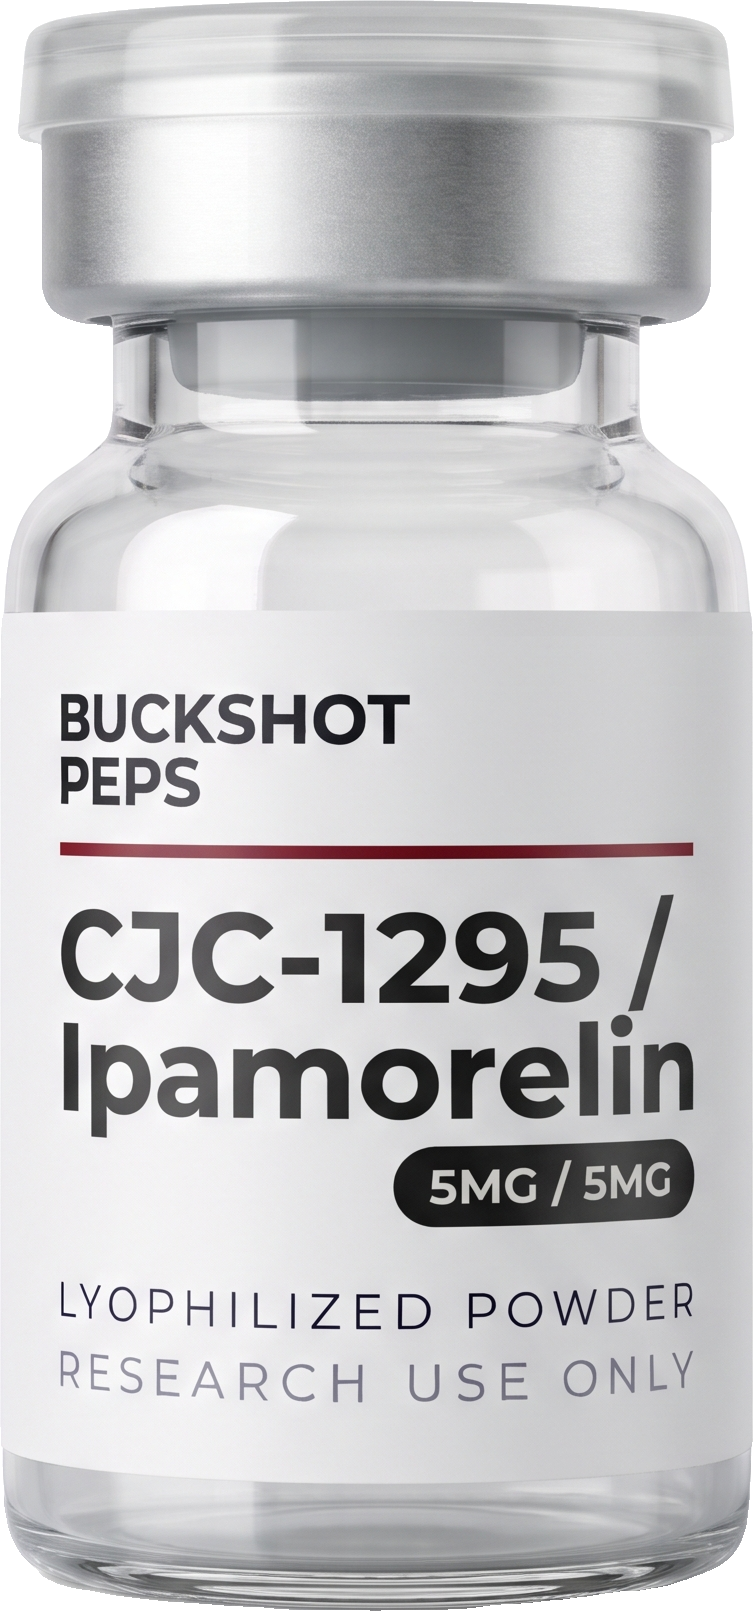
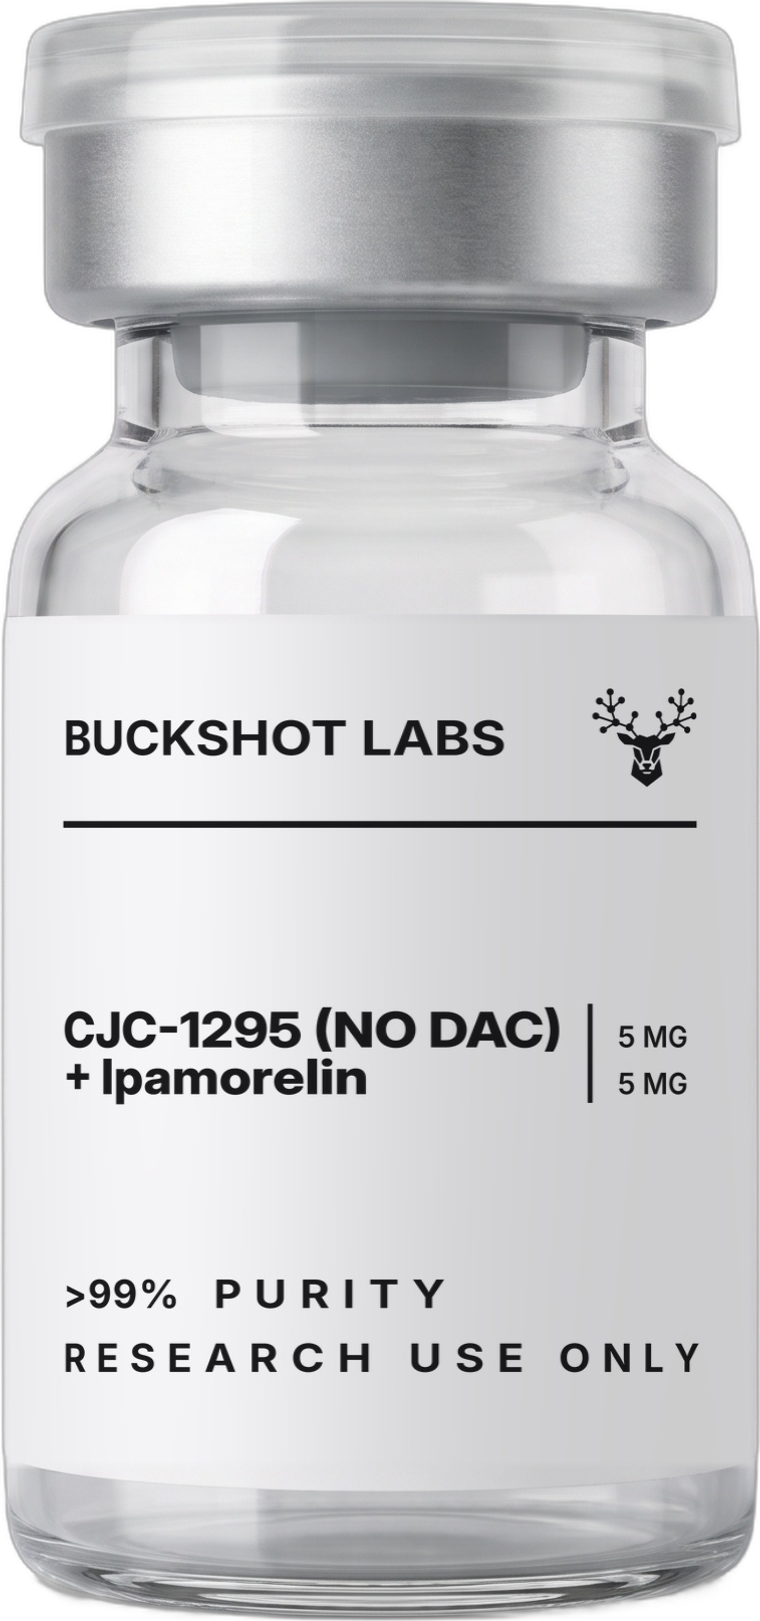
QA pass: new vial art, canonical names, overstock check, 390px fixes
- Hero vials still said BUCKSHOT PEPS / LYOPHILIZED POWDER: replaced with the
  new Buckshot Labs transparent renders (trimmed, 760px wide).
- One-time logged data migration renames products to MOTS-c, 5-Amino-1MQ,
  CJC-1295 (NO DAC) + Ipamorelin and Retatrutide (slugs and past orders kept).
- Checkout refuses quantities above stock (guest carts could order more than
  exist; only fully sold-out items were refused before).
- Admin inventory scrolled sideways at 390px (grid column grew to the longest
  name): columns are minmax(0,1fr) now.
- Signing in mid-checkout counted a second 'checkout started' in analytics.
- Admin form placeholder no longer suggests 'Lyophilized powder'.
- e2e specs updated for the new names, code box and per-account rules.

diff --git a/e2e/accounts.spec.ts b/e2e/accounts.spec.ts
@@ -72,7 +72,7 @@ test.beforeAll(async ({ browser, playwright }) => {
   single = catalog.find((p) => p.variants.length === 1 && p.stock !== "out")!;
   reta = catalog.find((p) => p.name === "Retatrutide")!;
   expect(single, "a single-size product").toBeTruthy();
-  expect(reta?.variants.map((v) => v.label)).toEqual(["10mg", "20mg"]);
+  expect(reta?.variants.length, "Retatrutide has two sizes").toBe(2);
   // Ben used Cora's referral code on an earlier order.
   const db = new DatabaseSync(DB);
   cCode = (db.prepare(`select coalesce("referralCodeDisplay", "referralCode") c from "Customer" where email = ?`).get(C.email) as { c: string }).c;
@@ -132,7 +132,7 @@ test("1. A adds items and a code; sign out empties the cart; B sees only B's car
 test("2. a guest cart merges into the account at sign in, and codes are not carried over", async () => {
   await signOut(shop);
   await shop.goto(`/product/${reta.slug}`);
-  await shop.getByRole("radio", { name: /^10mg/ }).click();
+  await shop.getByRole("radio", { name: new RegExp(`^${reta.variants[0].label}`) }).click();
   await shop.getByRole("button", { name: /^Add to cart ·/ }).click();
   const drawer = shop.getByRole("dialog", { name: "Your cart" });
   await drawer.getByRole("button", { name: "Add a discount or referral code" }).click();
@@ -227,16 +227,20 @@ test("5. quick add on desktop: single size and Retatrutide 10mg / 20mg", async (
   await rcard.scrollIntoViewIfNeeded();
   await rcard.hover();
   const rbar = shop.locator(`[data-quick-add="${reta.slug}"] .qa-bar`);
-  await expect(rbar.locator("[data-quick-size]")).toHaveText(["10mg", "20mg"]);
-  await rbar.locator('[data-quick-size="20mg"]').click();
+  await expect(rbar.locator("[data-quick-size]")).toHaveText(reta.variants.map((v) => v.label));
+  // Sold-out sizes are shown but can't be picked; pick an in-stock one (the second when it is in stock).
+  for (const [i, v] of reta.variants.entries()) if (v.stock === "out") await expect(rbar.locator("[data-quick-size]").nth(i)).toBeDisabled();
+  const pick = reta.variants[1].stock !== "out" ? 1 : reta.variants.findIndex((v) => v.stock !== "out");
+  const picked = reta.variants[pick];
+  await rbar.locator("[data-quick-size]").nth(pick).click();
   await rbar.getByRole("button", { name: "Increase quantity" }).click();
   await expect(rbar.locator("[data-quick-qty]")).toHaveText("2");
   await shop.waitForTimeout(500);
   await shot(shop, "12-quick-add-retatrutide");
-  const before = (await serverCart()).items.find((i) => i.variantId === reta.variants[1].id)?.quantity ?? 0;
+  const before = (await serverCart()).items.find((i) => i.variantId === picked.id)?.quantity ?? 0;
   await rbar.locator("[data-quick-add-button]").click();
   await expect(shop.getByRole("dialog", { name: "Your cart" })).toBeVisible();
-  await expect.poll(async () => (await serverCart()).items.find((i) => i.variantId === reta.variants[1].id)?.quantity).toBe(before + 2);
+  await expect.poll(async () => (await serverCart()).items.find((i) => i.variantId === picked.id)?.quantity).toBe(before + 2);
   await shot(shop, "13-quick-add-added-drawer");
   await shop.getByRole("button", { name: "Close cart" }).click();
   // Clicking the photo outside the bar still opens the product page.

diff --git a/src/app/admin/(panel)/inventory/page.tsx b/src/app/admin/(panel)/inventory/page.tsx
@@ -121,7 +121,7 @@ export default function InventoryPage() {
           setDrag(null);
           setOver(null);
         }}
-        className={cx("rounded-2xl border bg-surface p-4", sortable && "cursor-grab", sortable && over === i && drag !== null && drag !== i ? "border-accent ring-2 ring-accent/30" : "border-line", drag === i && "opacity-40")}
+        className={cx("min-w-0 rounded-2xl border bg-surface p-4", sortable && "cursor-grab", sortable && over === i && drag !== null && drag !== i ? "border-accent ring-2 ring-accent/30" : "border-line", drag === i && "opacity-40")}
       >
         <div className="flex items-start gap-2">
           {sortable && <GripVertical size={18} className="mt-0.5 hidden shrink-0 text-muted sm:block" />}
@@ -237,7 +237,7 @@ export default function InventoryPage() {
         />
       ) : (
         <>
-          <div className={cx("grid gap-3", reorder ? "md:grid-cols-1" : "md:grid-cols-2")}>{shown.map((r, i) => card(r, i, reorder))}</div>
+          <div className={cx("grid grid-cols-[minmax(0,1fr)] gap-3", reorder ? "md:grid-cols-[minmax(0,1fr)]" : "md:grid-cols-[repeat(2,minmax(0,1fr))]")}>{shown.map((r, i) => card(r, i, reorder))}</div>
           {shown.length === 0 && (
             <p className="rounded-2xl border border-dashed border-line px-4 py-10 text-center text-sm text-muted">
               {webFilter === "on" ? "No products are on the website yet. Open a product, go to the Website tab and switch on “Show on website”." : "Every product is on the website."}
@@ -254,7 +254,7 @@ export default function InventoryPage() {
               >
                 Archived ({archived.length})
               </SectionTitle>
-              {showArchived && <div className="grid gap-3 md:grid-cols-2">{archived.map((r, i) => card(r, i, false))}</div>}
+              {showArchived && <div className="grid grid-cols-[minmax(0,1fr)] gap-3 md:grid-cols-[repeat(2,minmax(0,1fr))]">{archived.map((r, i) => card(r, i, false))}</div>}
             </>
           )}
 

diff --git a/src/lib/order-ops.ts b/src/lib/order-ops.ts
@@ -213,6 +213,11 @@ export async function placeOrder(input: CheckoutInput): Promise<{ id: string; to
   if (conflict) throw new HttpError(409, STACKING_TEXT);
   const soldOut = pricing.lines.filter((l) => (ledger.stock.get(l.variantId)?.stock ?? 0) <= 0);
   if (soldOut.length) throw new HttpError(409, `${soldOut.map((l) => l.name).join(", ")} just sold out. Remove ${soldOut.length === 1 ? "it" : "them"} from your cart to continue.`);
+  // More than is in stock: refused with how many there are (the cart caps signed-in carts already).
+  const wantBy = new Map<string, { name: string; qty: number }>();
+  for (const l of pricing.lines) wantBy.set(l.variantId, { name: l.name, qty: (wantBy.get(l.variantId)?.qty ?? 0) + l.quantity });
+  const short = [...wantBy].filter(([id, w]) => w.qty > (ledger.stock.get(id)?.stock ?? 0));
+  if (short.length) throw new HttpError(409, short.map(([id, w]) => `Only ${ledger.stock.get(id)?.stock ?? 0} ${w.name} left.`).join(" ") + " Lower the quantity in your cart to continue.");
   // How it gets to the customer. Local methods are checked again here (never trust the browser):
   // the ZIP must be inside the radius and the method turned on in Settings.
   const fulfillment: Fulfillment = input.fulfillment ?? "ship";

diff --git a/src/lib/store/cart-isolation.db.test.ts b/src/lib/store/cart-isolation.db.test.ts
@@ -204,6 +204,17 @@ describe("prices are worked out on the server for the account signed in now", ()
     expect(await prisma.order.count()).toBe(0);
   });
 
+  it("a guest-built cart with more than is in stock is refused at checkout", async () => {
+    await signIn("ben@example.com");
+    const items = [{ variantId: "reta10", quantity: 6 }]; // 5 in stock
+    const q = await quote({ items, shipTo });
+    const total = q.json.subtotalCents - q.json.discountCents + q.json.shipping[0].cents;
+    const r = await call(checkoutRoute.POST, "/api/store/checkout", "POST", { accountId: B, phone: "", shipTo, items, code: "", tier: q.json.shipping[0].tier, payChoice: "zelle", expectedTotalCents: total, ackResearch: true, ackPolicies: true });
+    expect(r.status).toBe(409);
+    expect(r.json.error).toMatch(/^Only 5 Retatrutide 10mg left\./);
+    expect(await prisma.order.count()).toBe(0);
+  });
+
   it("owner price never applies to a website order: not for the owner, not for anyone, whatever the browser sends", async () => {
     // Ann is also the admin (owner) and is signed in to both. The web cart is priced at the normal price.
     await signIn("ann@example.com");

diff --git a/e2e/flow.spec.ts b/e2e/flow.spec.ts
@@ -138,6 +138,12 @@ test("4. sign up inside checkout, Priority shipping, place the order", async () 
   await shop.locator("form", { has: shop.locator("#au-email") }).locator('button[type="submit"]').click();
 
   await expect(shop.locator("#co-street1")).toBeVisible();
+  // Codes are never carried from the guest cart into an account: the customer applies it again (re-checked for this account).
+  await expect(shop.locator("[data-applied-discount]")).toHaveCount(0);
+  await shop.getByRole("button", { name: "Add a discount or referral code" }).click();
+  await shop.getByLabel("Discount or referral code").fill("welcome10");
+  await shop.getByRole("button", { name: "Apply", exact: true }).click();
+  await expect(shop.locator("[data-applied-discount]")).toHaveText(/WELCOME10/);
   await shop.locator("#co-name").fill("Dana E2E Reed");
   await shop.locator("#co-street1").fill("500 Oak Avenue");
   await shop.locator("#co-city").fill("Denver");

diff --git a/e2e/pages.spec.ts b/e2e/pages.spec.ts
@@ -268,6 +268,8 @@ for (const w of WIDTHS) {
       await page.getByRole("radio", { name: /^All/ }).click();
       const card = page.locator("div.rounded-2xl", { hasText: "GHK-Cu 100mg" }).first();
       await expect(card.getByText("Size in name")).toBeVisible();
+      // At 390px the sticky header can sit over the button after scrolling: center it first.
+      await card.getByRole("button", { name: "Edit" }).evaluate((el) => el.scrollIntoView({ block: "center" }));
       await card.getByRole("button", { name: "Edit" }).click();
       const sheet = page.getByRole("dialog");
       await expect(sheet.getByRole("alert")).toContainText("The name includes a size (“100mg”)");

diff --git a/src/components/storefront/cart.tsx b/src/components/storefront/cart.tsx
@@ -168,7 +168,6 @@ function clearLocal() {
   try {
     localStorage.removeItem(GUEST_KEY);
     localStorage.removeItem(LEGACY_KEY);
-    sessionStorage.removeItem("bl-checkout");
   } catch {}
 }
 async function cartApi(body: Record<string, unknown>) {
